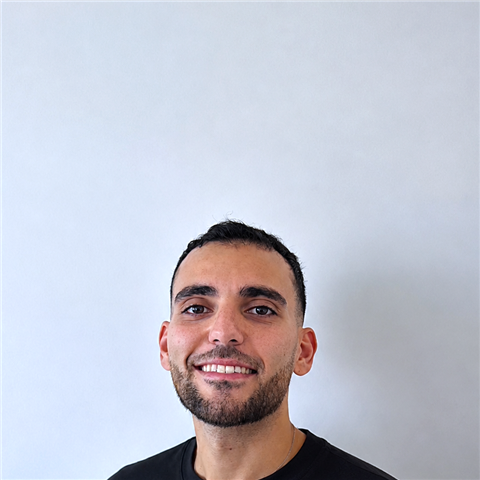
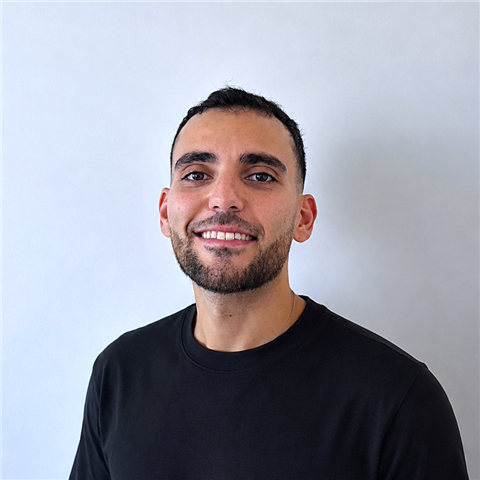
Foto: flink naar beneden (45%) voor schouders en borst zichtbaar

diff --git a/docs/index.html b/docs/index.html
@@ -1472,7 +1472,7 @@
         <div style="margin-top: 56px; max-width: 760px; margin-left: auto; margin-right: auto; text-align: center;">
                 <div style="margin-bottom: 28px;">
                     <div style="width:240px; height:240px; border-radius:50%; border:2px solid rgba(201,168,76,0.35); overflow:hidden; display:block; margin:0 auto;">
-                        <img src="images/oussama.png?v=9" alt="Oussama Hlalouch" style="width:240px; height:240px; display:block;">
+                        <img src="images/oussama.png?v=10" alt="Oussama Hlalouch" style="width:240px; height:240px; display:block;">
                     </div>
                 </div>
                 <h3 class="about-name">Oussama Hlalouch</h3>